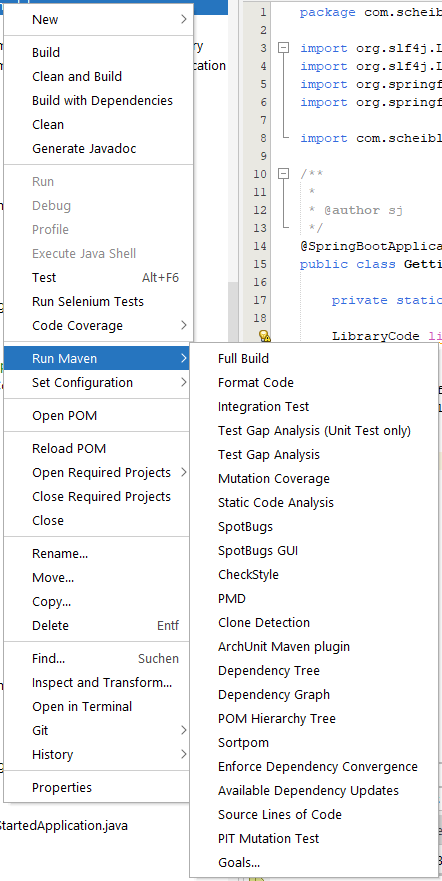
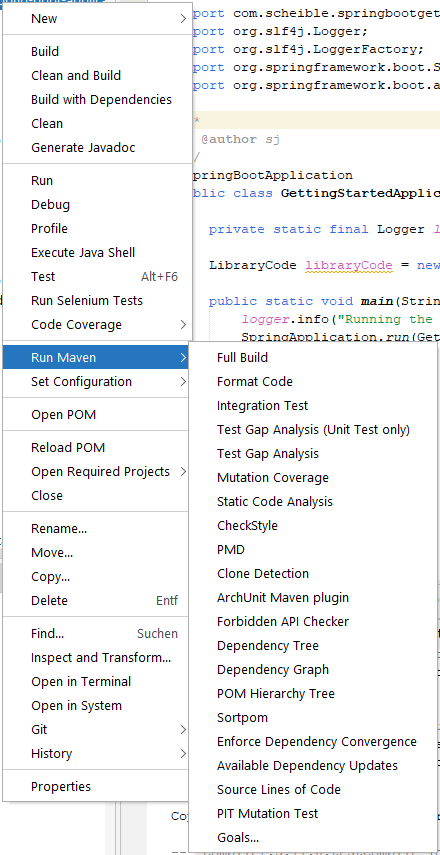
reflected recent changes in readme.md
- added a section about commit message format
- added screenshots of my Netbeans configuration

diff --git a/README.md b/README.md
@@ -8,52 +8,66 @@ Just clone the repository and you're ready to go (please see prerequisites secti
 
 Highly opinionated build with selection of Maven plugins made accessible via the Netbeans UI.
 See section 'Source code style' for more information about the coding style.
+For a Git commit message template see the section 'Commit message format'.
 The two projects in `spring-boot-netbeans-single-module` and `spring-boot-netbeans-multi-module` can be used as templates.
 Both projects use `${revision}` for setting the version which can be overridden at build time from the outside.
 
- In order to speed up the IDE actions as much as possible **[Run]**, **[Debug]**, and **[Test]** are even skipping `resources:[test]Resources` and `compiler:[test]Compile` and simply use the current contents of the `target` directory.
+In order to speed up the IDE actions as much as possible use the [Maven Daemon](https://github.com/apache/maven-mvnd).
+Also **[Run]**, **[Debug]**, and **[Test]** skip all not necessary plugins.
 This is done with the `maven-skip-execution-profile-extension` that automatically creates the (runtime) profiles needed for skipping certain plugins actions.
 The profiles don't end up in the actual POM.
 
+"Compile on Save" is currently disabled.
+The idea is to always use the Java compiler because recently CoS fell more and more out of favour (see [disable compile-on-save by default in maven projects #5826](https://github.com/apache/netbeans/pull/5826)).
+`javac` has no incremental compilation and might get too slow for bigger projects.
+To test if the Eclipse compiler (which is able to do incremental compilation) performs better a profile called `eclipse` is included.
+
 ![Netbeans Maven Goals](./nbactions.png)
 
-- **[Build]** `install` with `resources:[test]Resources` and `compiler:[test]Compile` only
-- **[Clean and Build]** `clean install` with `resources:[test]Resources` and `compiler:[test]Compile` only
-- **[Run]** `spring-boot:run`
-- **[Debug]** `spring-boot:run` with debugger attached
-- Run Maven
-  - **[Full Build]** a full `clean install` with verification
-  - **[Format Code]** `formatter:format` according to `eclipse-formatter-config.xml` and `impsort:sort`  
-  - **[Integration Test]** `failsafe:integration-test`
-  - **[Test Gap Analysis (Unit Test only)]** `test-gap-analysis:perform` of current working tree changes with unit tests only
-  - **[Test Gap Analysis]** `test-gap-analysis:perform` of current working tree changes with unit and integration tests 
-  - **[Mutation Coverage]** `pitest-maven:mutationCoverage` of unit tests only
-  - **[Static Code Analysis]** `spotbugs:check`, `checkstyle:check`, `pmd:check`, `pmd:cpd-check` and `arch-unit:arch-test`
-  - **[SpotBugs]** `spotbugs:check`
-  - **[SpotBugs GUI]** `spotbugs:gui`
-  - **[Checkstyle]** `checkstyle:check` for among others checking the metrics [Cyclomatic Complexity](https://checkstyle.org/config_metrics.html#CyclomaticComplexity) and [NCSS](https://checkstyle.org/config_metrics.html#JavaNCSS)
-  - **[PMD]** `pmd:check`
-  - **[Clone Detection]** `pmd:cpd-check`
-  - **[ArchUnit Maven plugin]** `arch-unit:arch-test` 
-  - **[Dependency Tree]** `dependency:tree`
-  - **[Dependency Graph]** `depgraph:graph`
-  - **[POM Hierarchy Tree]** `hierarchy:tree`
-  - **[Sortpom]** `sortpom:sorty`
-  - **[Enforce Dependency Convergence]** `enforcer:enforce@dependency-convergence`
-  - **[Available Dependency Updates]** `versions:display-dependency-updates`
-  - **[Source Lines of Code]** `sloc-maven-plugin:sloc`
-  - **[PIT Mutation Test]** `pitest-maven:mutationCoverage` with report generation
-  
+-   **[Build]** `install` with `resources:[test]Resources` and `compiler:[test]Compile` only
+-   **[Clean and Build]** `clean install` with `resources:[test]Resources` and `compiler:[test]Compile` only
+-   **[Run]** `spring-boot:run`
+-   **[Debug]** `spring-boot:run` with debugger attached
+-   Run Maven
+    -   **[Full Build]** a full `clean install` with verification
+    -   **[Format Code]** `spring-javaformat:apply` and `impsort:sort`
+    -   **[Integration Test]** `failsafe:integration-test`
+    -   **[Test Gap Analysis (Unit Test only)]** `test-gap-analysis:perform` of current working tree changes with unit tests only
+    -   **[Test Gap Analysis]** `test-gap-analysis:perform` of current working tree changes with unit and integration tests
+    -   **[Mutation Coverage]** `pitest-maven:mutationCoverage` of unit tests only
+    -   **[Static Code Analysis]** `spotbugs:check`, `checkstyle:check`, `pmd:check`, `pmd:cpd-check` and `arch-unit:arch-test`
+    -   **[Checkstyle]** `checkstyle:check`
+    -   **[PMD]** `pmd:check`
+    -   **[Clone Detection]** `pmd:cpd-check`
+    -   **[ArchUnit Maven plugin]** `arch-unit:arch-test`
+    -   **[Forbidden API Checker]** `forbiddenapis:check`
+    -   **[Dependency Tree]** `dependency:tree`
+    -   **[Dependency Graph]** `depgraph:graph`
+    -   **[POM Hierarchy Tree]** `hierarchy:tree`
+    -   **[Sortpom]** `sortpom:sorty`
+    -   **[Enforce Dependency Convergence]** `enforcer:enforce@dependency-convergence`
+    -   **[Available Dependency Updates]** `versions:display-dependency-updates`
+    -   **[Source Lines of Code]** `sloc-maven-plugin:sloc`
+    -   **[PIT Mutation Test]** `pitest-maven:mutationCoverage` with report generation
+
 ## Prerequisites
-1. at least JDK 17
-1. recent Maven (tested with 3.8.6)
-1. Netbeans >= 15
-1. `mvn clean install` in `skip-execution-profile/maven-skip-execution-profile-extension` directory of the repository
-1. `mvn clean install` of [Pocketsaw 1.5.1](https://github.com/janScheible/pocketsaw/tree/1.5.1)
-1. **[optional]** [External Code Formatters for NetBeans](https://funfried.github.io/externalcodeformatter_for_netbeans/) plugin >= 1.14.0 to use the Eclipse Formatter directly in the IDE
+
+1. JDK 17
+1. recent Maven (tested with 3.9.5), the Maven Daemon is recommended to speed up the IDE actions
+1. Netbeans (tested with 19)
+1. `mvn clean install` in `skip-execution-profile/maven-skip-execution-profile-extension` directory of this repository
+1. `mvn clean install` of [Pocketsaw 1.7.0](https://github.com/janScheible/pocketsaw/tree/1.5.1)
+1. **[optional]** [External Code Formatters for NetBeans](https://funfried.github.io/externalcodeformatter_for_netbeans/) to apply the Spring Java Format directly in the IDE
+
+    - **NOTE:** It is important that the version of the `io.spring.javaformat:spring-javaformat-formatter` and `org.eclipse.jdt:org.eclipse.jdt.core` dependencies of the plugin are matching the version of the used Maven plugin.
+      Otherwise the format could be slightly different.
+      Check the URL mentioned in https://github.com/spring-io/spring-javaformat/blob/main/pom.xml#L35 under plugins for the exact version of `org.eclipse.jdt.core` to use.
+
+1. **[optional]** matching Netbeans Java Import settings ![Netbeans Java Import setings](./java-import-settings.png)
 1. **[optional]** `mvn clean install` of [Test Gap Analysis 1.2.1](https://github.com/janScheible/test-gap-analysis/tree/1.2.1)
 
 ## Source code style
+
 1. avoid `static` methods for easier testing
     1. exception: (package) private helper methods in classes that are static to enforce functional purity
     1. exception: completely stateless `*Utils` classes with static methods only
@@ -78,9 +92,9 @@ The profiles don't end up in the actual POM.
     1. local variables and parameters must not use `final` because it adds too much noise (see https://github.com/spring-io/spring-javaformat#final)
         1. only ever mutate parameters in `private` methods (for example recursive methods), for all other methods return proper result types
 1. usage of `Optional<?>` (was actually designed for method return types only, but is the only JDK built-in way to indicate a nullable value (all `@Nullable` annotations are from third-party libraries))
-    1. never pass or return `null`, use `Optional<?>` instead (this eliminates the need for `null` checks everywhere)
+    1. never return `null`, use `Optional<?>` instead (this eliminates the need for `null` checks everywhere)
     1. but prefer method overloading or usage of a builder over `Optional<?>` method parameters
-    1. even use `Optional<?>` for class fields (avoids unnecessary `Optional.ofNullable(...)` calls in getter of immutable objects)
+    1. even use `Optional<?>` for immutable class fields or record components (avoids unnecessary `Optional.ofNullable(...)` calls in getters)
 1. Java source file organization (derived from https://github.com/spring-projects/spring-framework/wiki/Code-Style#java-source-file-organization)
     1. `enum` types if simple ones (contains only constants)
     1. `static` fields and initializers
@@ -113,3 +127,33 @@ The profiles don't end up in the actual POM.
     1. don't overuse lambdas with streams, prefer method references or simple one line lambdas
     1. usage of `forEach` with `stream()` is suspicious, should only be used in rare cases with a method reference (good old for-each loops might be easier to read and debug)
 1. no usage of `var` at all because the diamond operator does a good enough job (the Spring teams agrees: https://github.com/spring-projects/spring-framework/wiki/Code-Style#local-variable-type-inference)
+1. be careful with static initializers that perform heavy operations, they might slow down app start
+    1. prefer lazy instantiation with either https://en.wikipedia.org/wiki/Initialization-on-demand_holder_idiom or a simple singleton with a `synchronnized` block
+
+## Commit message format
+
+All messages must adhere to the following format:
+
+```markdown
+summary (use same summary to group multiple commits)
+
+-   change details as unordered Markdown list
+    -   with multiple levels to group things
+-   single backticks for `code`
+```
+
+The blank line between summary and details is mandatory.
+Details are always a Markdown syntax unordered list.
+In the list items only plain text and Markdown code is allowed.
+Lower case is in general preferred, only proper names should be capitalized.
+
+## My Netbeans configuration
+
+![Netbeans Java Import setings](./keymap-settings.png)
+![Netbeans Java Import setings](./editor-tabs-settings.png)
+![Netbeans Java Import setings](./mvnd-settings.png)
+![Netbeans Java Import setings](./tab-size-right-margin-settings.png)
+![Netbeans Java Import setings](./java-import-settings.png)
+![Netbeans Java Import setings](./on-save-settings.png)
+![Netbeans Java Import setings](./package-tree-settings.png)
+![Netbeans Java Import setings](./java-platforms.png)
